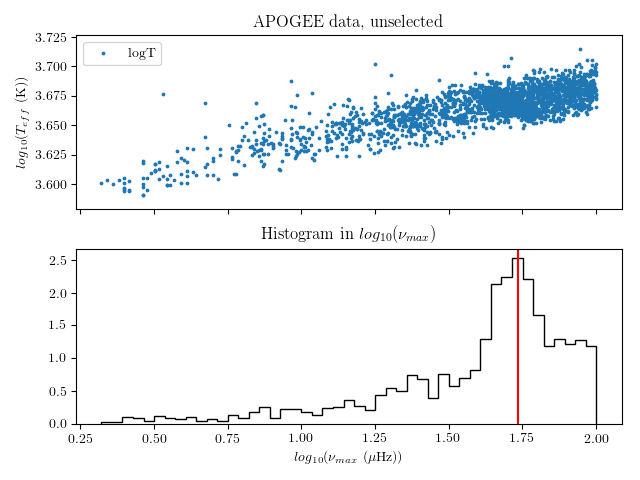
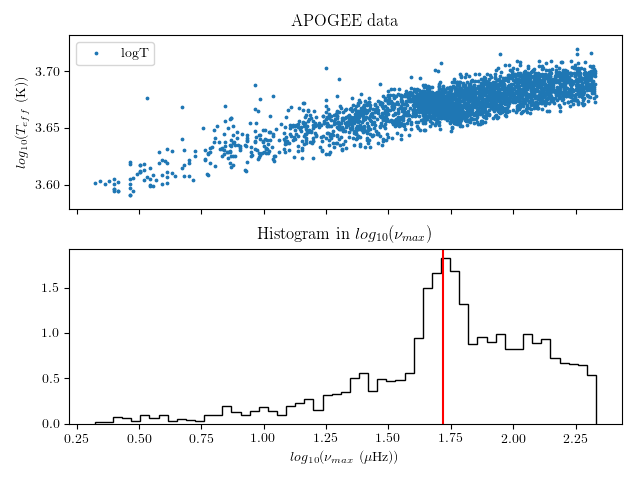
Removed subset looping from RGBb_mixmod.

diff --git a/RGBb_mixmod.py b/RGBb_mixmod.py
@@ -22,18 +22,29 @@ import cPrior
 import cLLModels
 import cMCMC
 
-def get_values():
-    files = glob.glob('data/RGB_data.txt')[0]
-    df = pd.read_table(files, sep=',', header=0, error_bad_lines=False)
+def get_values(style):
+    if style == 'rgb':
+        files = glob.glob('data/RGB_data.txt')[0]
+        df = pd.read_table(files, sep=',', header=0, error_bad_lines=False)
 
-    df['logT'] = np.log10(df.Teff)
-    df['logL'] = np.log10(df.L)
-    df['lognumax'] = np.log10(df.numax)
+        df['logT'] = np.log10(df.Teff)
+        df['logL'] = np.log10(df.L)
+        df['lognumax'] = np.log10(df.numax)
 
-    df = df.sort_values(by=['numax'])
-    # df = df[df.lognumax <= 2.0]
+        df = df.sort_values(by=['numax'])
+        # df = df[df.lognumax <= 2.0]
 
-    return df.lognumax, df.logT, df, files
+    if style == 'trilegal':
+        files = glob.glob('data/trilegal_keplerfov.txt')[0]
+        df = pd.read_table(files, sep=',', header=0, error_bad_lines=False)
+
+        df['logT'] = np.log10(df.teff)
+        df['lognumax'] = np.log10(df.numax)
+
+        df = df.sort_values(by=['numax'])
+
+
+    return df.lognumax, df.logT, df
 
 class cLikelihood:
     '''A likelihood function that pulls in log likehoods from the LLModels class
@@ -108,7 +119,7 @@ def probability_plot(x, y, fy, X, Y, bins, exp_x, line_y, bi_g, bi_x, bi_y):
     yax.legend(loc='best')
 
 
-    xax2.scatter(x,bi_x,s=5,c ='cornflowerblue', alpha=.5,label='Biavariate in X')
+    xax2.scatter(x,bi_x,s=5,c ='cornflowerblue', alpha=.5,label='Bivariate in X')
     xax.scatter(x,exp_x,s=5,c='orange', alpha=.5,label='RGB Model in X')
     xax.hist(x,bins=bins,histtype='step',color='r',normed=True)
     h1, l1 = xax.get_legend_handles_labels()
@@ -133,37 +144,31 @@ if __name__ == '__main__':
     flo = np.arange(-0.5,0.3,0.2)
     fhi = np.arange(-0.3,0.5,0.2)
 
-    xfull, yfull, df, sfile = get_values()
-    for lo1, hi1 in zip(mlo,mhi):
-        for lo2, hi2 in zip(flo,fhi):
-            sel = np.where((df.mass > lo1) & (df.mass < hi1) & (df.FeH > lo2) & (df.FeH < hi2))[0]
-            x = xfull.values[sel]
-            y = yfull.values[sel]
-            subset = str(lo1)+'<M<'+str(hi1)+'\_'+str(lo2)+'<FeH<'+str(hi2)
+    x, y, df = get_values('rgb')
+
 ####---SETTING UP DATA
 
-            bins = int(np.sqrt(len(x)))
+    bins = int(np.sqrt(len(x)))
 
-            #Plotting the data to be fit to
-            fig, ax = plt.subplots(2, sharex=True)
-            ax[0].scatter(x, y, s=3, zorder=1000)
-            ax[0].set_title(r'APOGEE data, $'+subset+r'$')
-            ax[0].set_ylabel(r"$log_{10}$($T_{eff}$ (K))")
-            ax[0].legend(loc='best',fancybox=True)
+    #Plotting the data to be fit to
+    fig, ax = plt.subplots(2, sharex=True)
+    ax[0].scatter(x, y, s=3, zorder=1000)
+    ax[0].set_title(r'APOGEE data')
+    ax[0].set_ylabel(r"$log_{10}$($T_{eff}$ (K))")
+    ax[0].legend(loc='best',fancybox=True)
 
-            #Making first guess for mu_x
-            n, b = np.histogram(10**x,bins=bins)
-            lnuguess = np.log10(b[np.argmax(n)])
+    #Making first guess for mu_x
+    n, b = np.histogram(10**x,bins=bins)
+    lnuguess = np.log10(b[np.argmax(n)])
 
-            ax[1].hist(x, bins=bins, color ='k', histtype='step', normed=1)
-            ax[1].axvline(lnuguess,c='r',label=r"$\nu_{max}$ estimate")
-            ax[1].set_title(r"Histogram in $log_{10}$($\nu_{max}$)")
-            ax[1].set_xlabel(r"$log_{10}$($\nu_{max}$ ($\mu$Hz))")
-            fig.tight_layout()
-            fig.savefig('Output/investigate_RGB_'+subset+'.png')
-            plt.close('all')
+    ax[1].hist(x, bins=bins, color ='k', histtype='step', normed=1)
+    ax[1].axvline(lnuguess,c='r',label=r"$\nu_{max}$ estimate")
+    ax[1].set_title(r"Histogram in $log_{10}$($\nu_{max}$)")
+    ax[1].set_xlabel(r"$log_{10}$($\nu_{max}$ ($\mu$Hz))")
+    fig.tight_layout()
+    fig.savefig('Output/investigate_RGB.png')
+    plt.close('all')
 
-    sys.exit()
 ####---BUILDING KDE AND OTHER PARAM ESTIMATES
 
     #Making first guess for x, y
